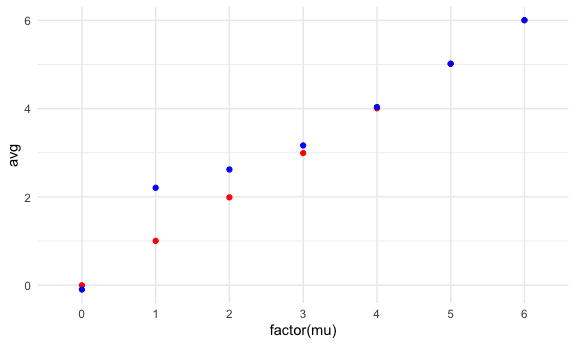
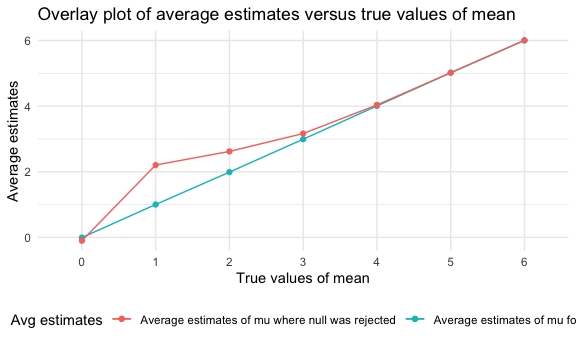
Problem 3: Plot 2: overlay plot

diff --git a/p8105_hw5_gb2685.md b/p8105_hw5_gb2685.md
@@ -389,6 +389,8 @@ labs (
 ```
 
 <img src="p8105_hw5_gb2685_files/figure-gfm/unnamed-chunk-8-1.png" width="90%" />
+Observation constant on control arm and increasing on the experimental
+arm
 
 ## Problem 3
 
@@ -460,6 +462,15 @@ ggplot(
 
 <img src="p8105_hw5_gb2685_files/figure-gfm/unnamed-chunk-12-1.png" width="90%" />
 
+*Association between effect size and power:* As the effect size
+increases (difference between true mu and 0), the power goes on
+increasing. This suggests that the power is directly proportional to the
+effect size when all else (alpha and sample size) is constant.
+
+*Making a plot of average estimate of mu versus true value of mu and a
+second plot the average estimate of mu only in samples for which the
+null was rejected versus the true value of mu on the x axis.*
+
 ``` r
 sim_results %>%
 mutate(
@@ -472,9 +483,30 @@ summarize(
   avg = mean(estimate),
   avg_null = mean(estimate[conclusion=="reject null"])
 )%>%
-ggplot(aes(x = factor(mu) )) + geom_point(aes(y= avg), color = "red")  + geom_point(aes(y= avg_null), color = "blue") 
+ggplot(aes(x = factor(mu) )) + 
+  geom_point(aes(y= avg, color = "red"))  + 
+  geom_line(aes(y = avg, color = "red"), group = 1) + 
+  
+  geom_point(aes(y= avg_null,  color = "blue")) +
+  geom_line(aes(y=avg_null,  color = "blue"), group =1) + 
+  labs(title = "Overlay plot of average estimates versus true values of mean",
+       x = "True values of mean", 
+       y = "Average estimates")+
+  scale_color_discrete(name = "Avg estimates", labels = c("Average estimates of mu where null was rejected", "Average estimates of mu for all"))+
+  theme(legend.position="bottom")
 ```
 
     ## `summarise()` ungrouping output (override with `.groups` argument)
 
 <img src="p8105_hw5_gb2685_files/figure-gfm/unnamed-chunk-13-1.png" width="90%" />
+
+Th red plot shows Average estimate of mu only for samples where null was
+rejected. The blue plot shows average estimate of mu for all samples
+
+The sample average estimate mu only in tests for which null was rejected
+is not equal to the true value of mu on the x axis for the means 0 to 3.
+From 4 onwards, the average estimate mu only in tests for which null was
+rejected is equal to the true value of mu on the x axis. This is
+because, when power increases, the deviation of the estimates from true
+mean reduces. The power as we saw was increasing with increasing mu
+(i.e. increasing effect size).
